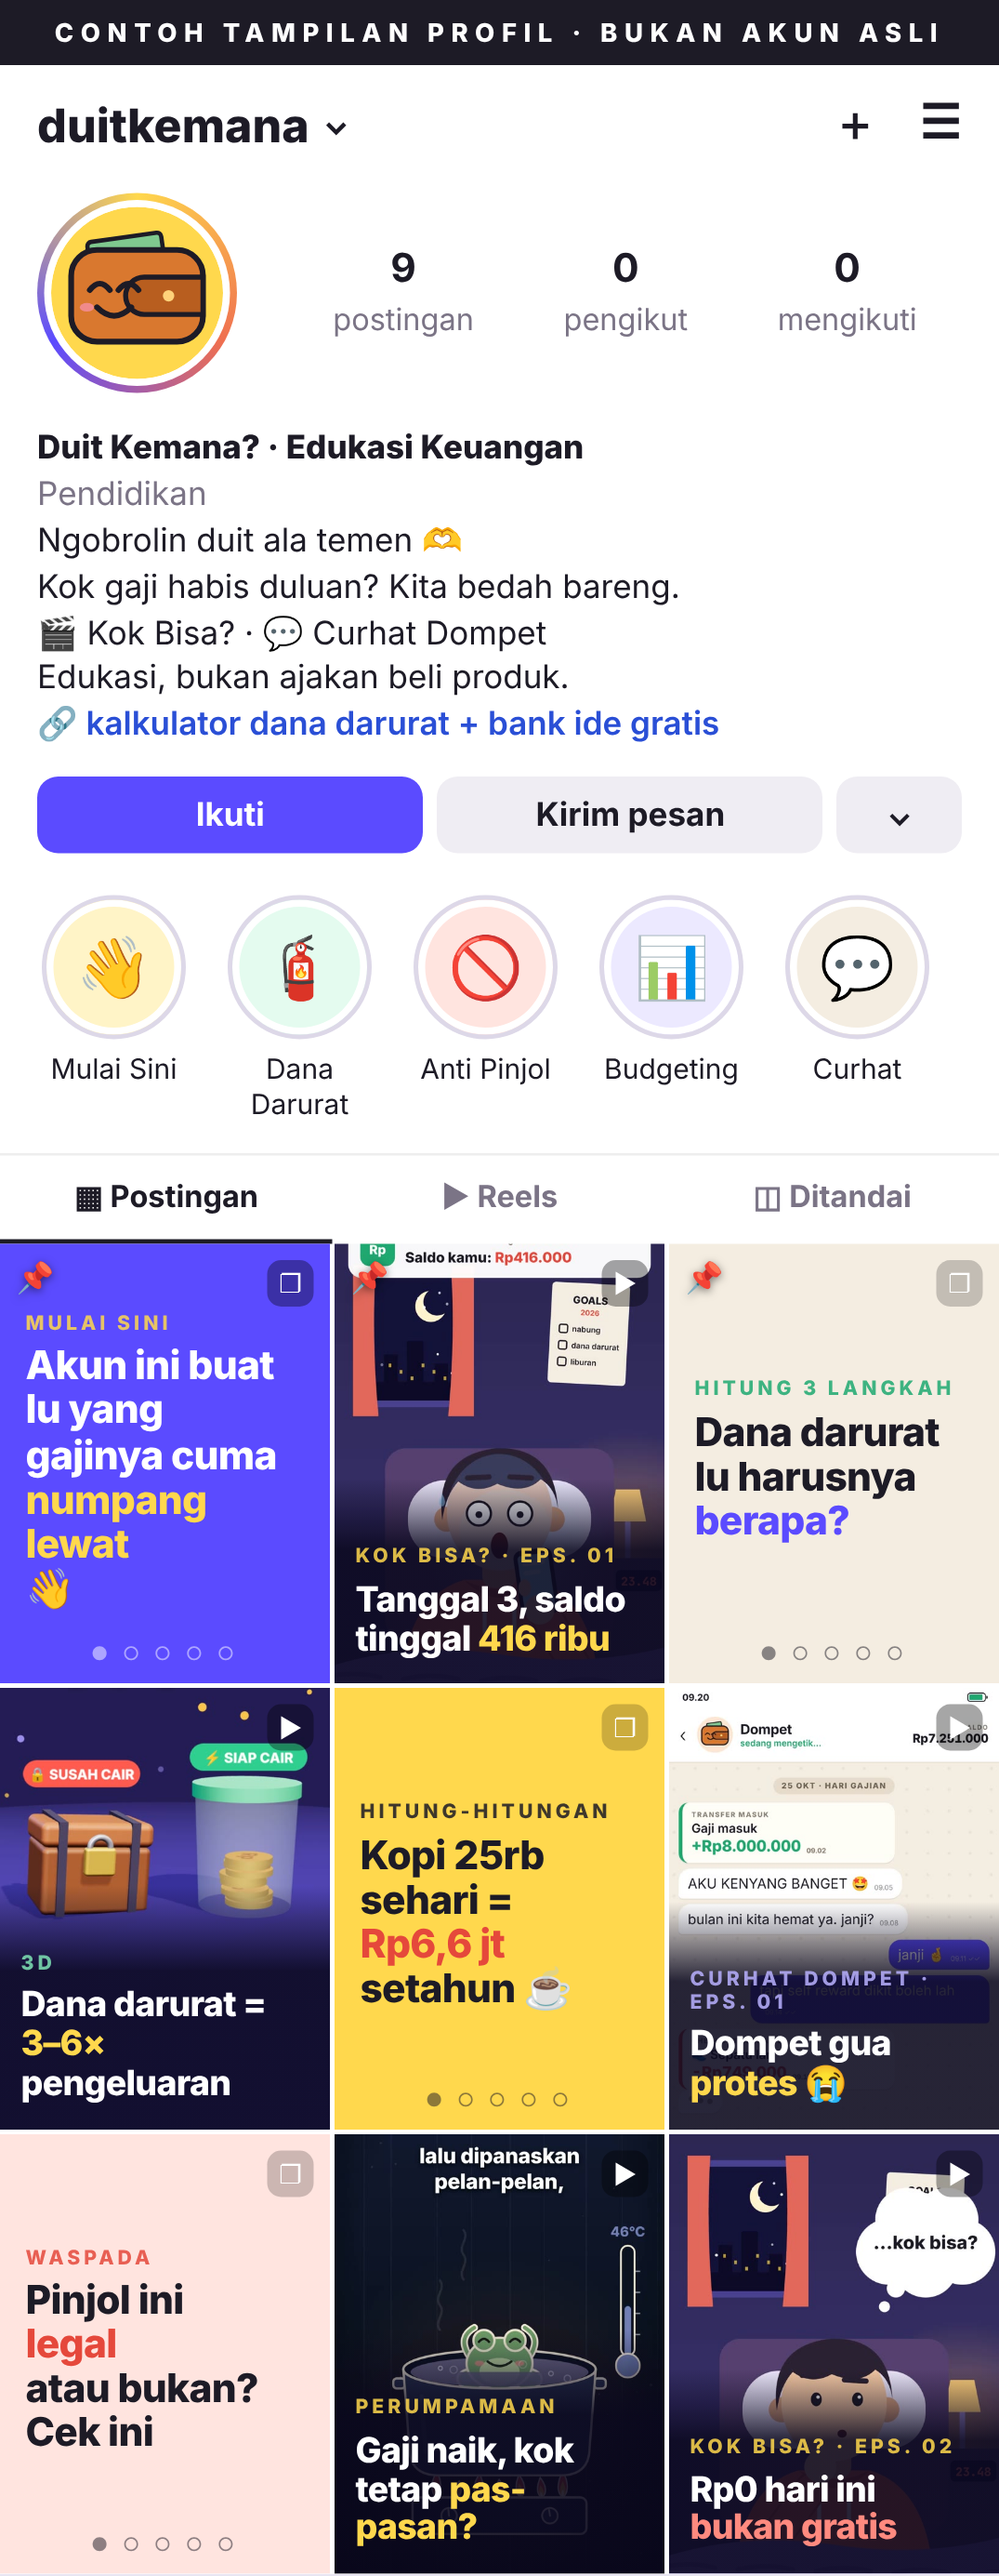
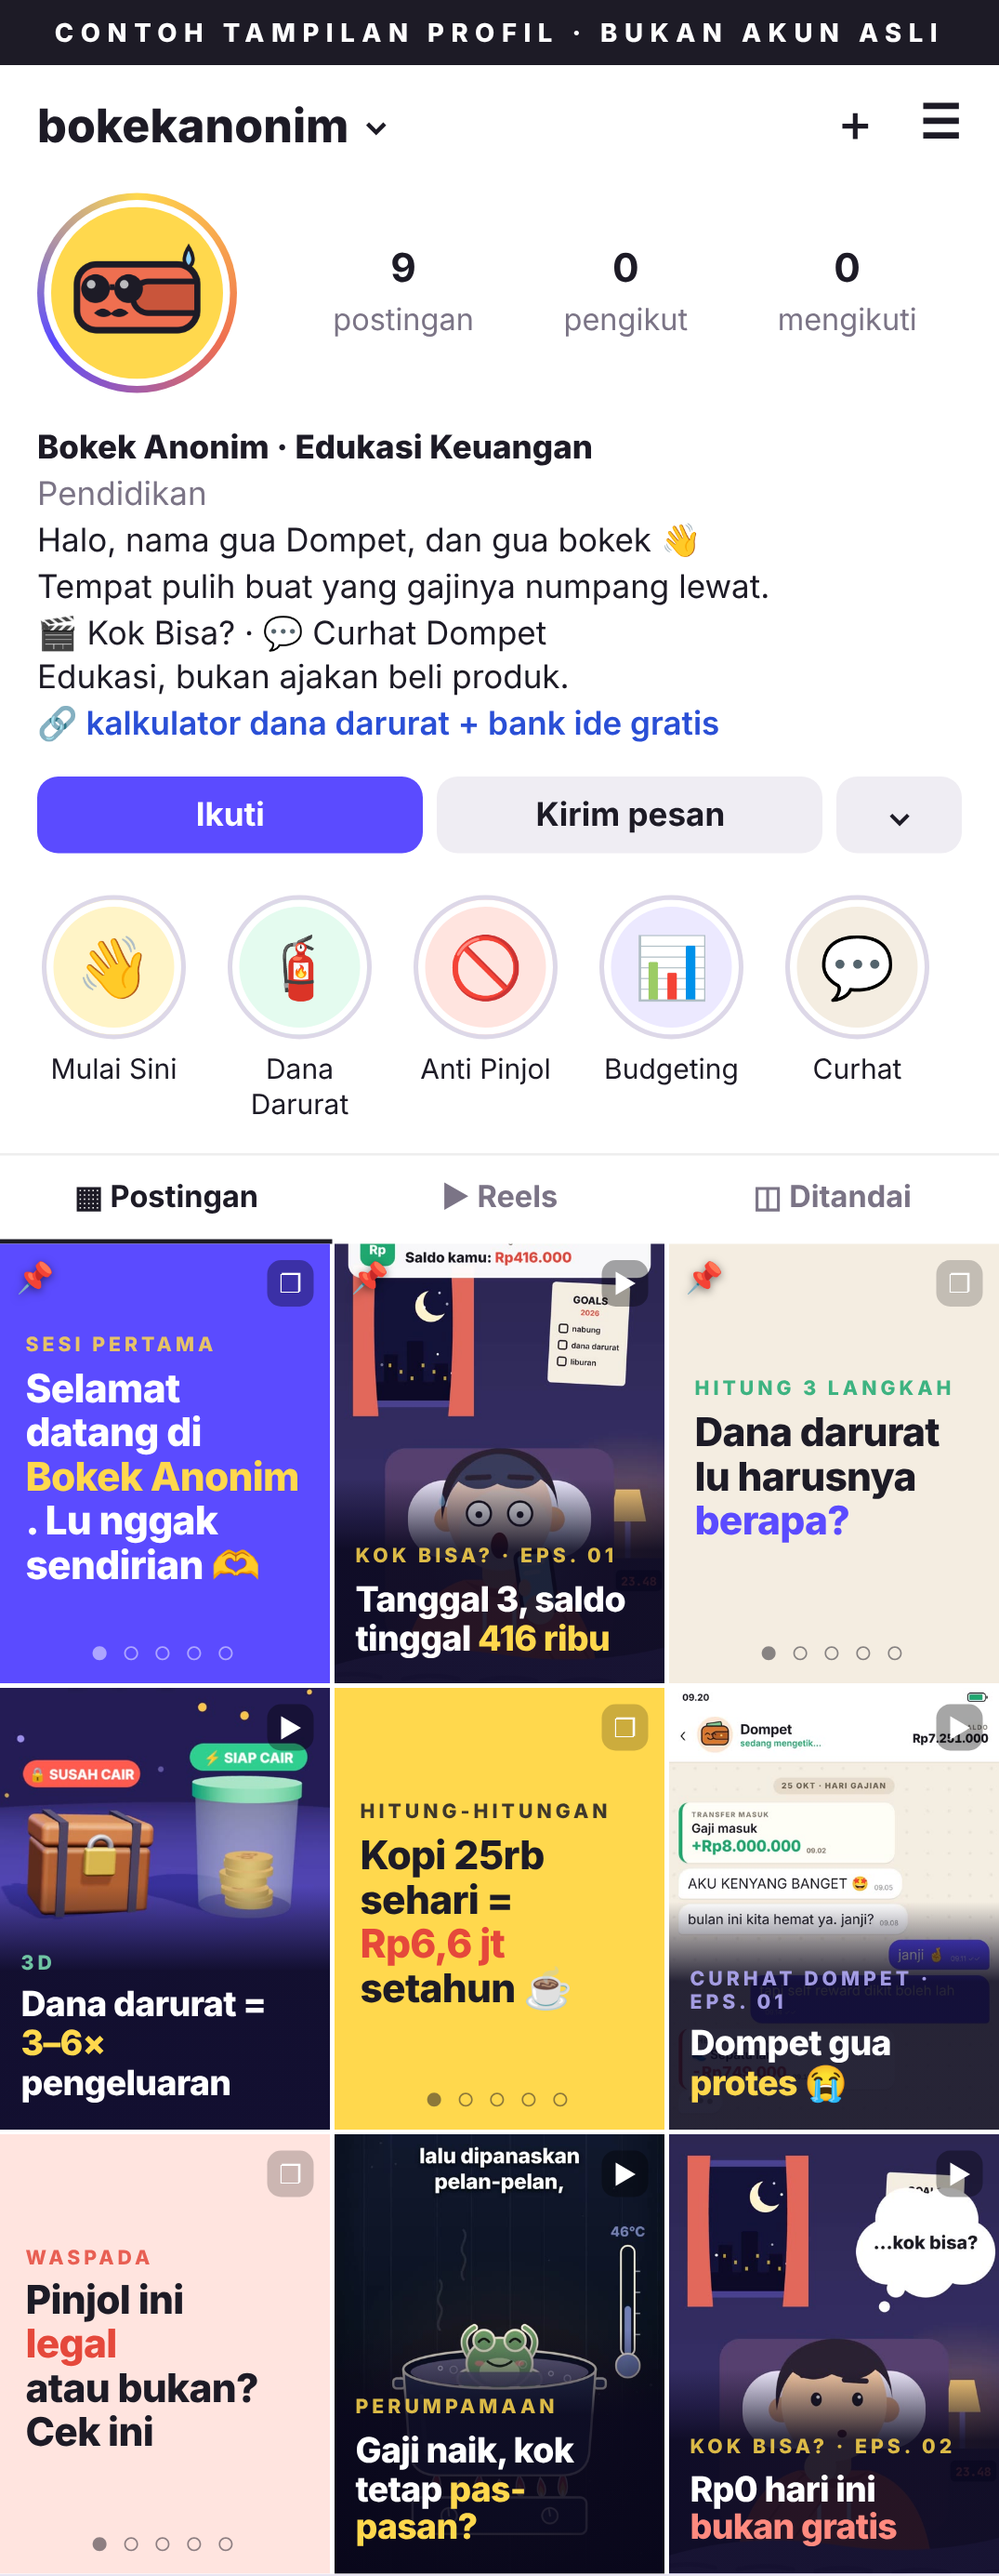
Tetapkan nama akun @bokekanonim
- Mockup profil, bio (149 karakter), dan foto profil Bokek Anonim
- profil-instagram.md: keputusan nama, konsep 'kelompok dukungan', nada 'kita senasib'
- Skill panduan-konten-finansial: profil akun final, aturan nada, tag penutup video

Claude-Session: https://claude.ai/code/session_01ATQoAQFijNxGRTTwvLjwt3

diff --git a/konten/profil/mockup.html b/konten/profil/mockup.html
@@ -48,13 +48,13 @@
 <body>
 <div class="phone">
   <div class="tagline">CONTOH TAMPILAN PROFIL · BUKAN AKUN ASLI</div>
-  <div class="top"><div class="h">duitkemana <span style="font-size:14px">⌄</span></div><div class="ic"><span>＋</span><span>☰</span></div></div>
+  <div class="top"><div class="h">bokekanonim <span style="font-size:14px">⌄</span></div><div class="ic"><span>＋</span><span>☰</span></div></div>
   <div class="head">
-    <div class="ava"><div><svg id="avatar" viewBox="0 0 120 120"></svg></div></div>
+    <div class="ava"><div><img src="logo-v2/logo-4-bokek-anonim.png" style="width:100%;height:100%;border-radius:50%;display:block"></div></div>
     <div class="stats"><div><b>9</b><span>postingan</span></div><div><b>0</b><span>pengikut</span></div><div><b>0</b><span>mengikuti</span></div></div>
   </div>
   <div class="bio">
-    <div class="name">Duit Kemana? · Edukasi Keuangan</div>
+    <div class="name">Bokek Anonim · Edukasi Keuangan</div>
     <div class="cat">Pendidikan</div>
     <div id="biotext"></div>
     <div class="link">🔗 kalkulator dana darurat + bank ide gratis</div>
@@ -70,7 +70,7 @@
   <div class="tabs"><div class="on">▦ Postingan</div><div>▶ Reels</div><div>◫ Ditandai</div></div>
   <div class="grid">
     <div class="t car" style="background:var(--violet);color:#fff"><span class="pin">📌</span><span class="badge">❐</span>
-      <div class="cov"><small style="color:var(--yellow)">MULAI SINI</small>Akun ini buat lu yang gajinya cuma <em style="color:var(--yellow)">numpang lewat</em> 👋</div><div class="dots">● ○ ○ ○ ○</div></div>
+      <div class="cov"><small style="color:var(--yellow)">SESI PERTAMA</small>Selamat datang di <em style="color:var(--yellow)">Bokek Anonim</em>. Lu nggak sendirian 🫶</div><div class="dots">● ○ ○ ○ ○</div></div>
     <div class="t vid" style="background-image:url(thumbs/kokbisa1.jpg)"><span class="pin">📌</span><span class="badge">▶</span>
       <div class="cov"><small style="color:var(--yellow)">KOK BISA? · EPS. 01</small>Tanggal 3, saldo tinggal <em style="color:var(--yellow)">416 ribu</em></div></div>
     <div class="t car" style="background:var(--cream)"><span class="pin">📌</span><span class="badge" style="background:rgba(0,0,0,.2)">❐</span>
@@ -90,11 +90,11 @@
   </div>
 </div>
 <script>
-const BIO = 'Ngobrolin duit ala temen 🫶\nKok gaji habis duluan? Kita bedah bareng.\n🎬 Kok Bisa? · 💬 Curhat Dompet\nEdukasi, bukan ajakan beli produk.';
+const BIO = 'Halo, nama gua Dompet, dan gua bokek 👋\nTempat pulih buat yang gajinya numpang lewat.\n🎬 Kok Bisa? · 💬 Curhat Dompet\nEdukasi, bukan ajakan beli produk.';
 document.getElementById('biotext').innerText = BIO;
 window.BIO = BIO;
 // maskot Dompet (gemuk, senang) sebagai foto profil
-document.getElementById('avatar').innerHTML = `
+if (document.getElementById('avatar')) document.getElementById('avatar').innerHTML = `
   <circle cx="60" cy="60" r="60" fill="#ffd84d"/>
   <rect x="26" y="20" width="52" height="22" rx="3" fill="#7fc98f" stroke="#1d1b26" stroke-width="3" transform="rotate(-8 60 30)"/>
   <rect x="14" y="30" width="92" height="64" rx="18" fill="#d9782f" stroke="#1d1b26" stroke-width="4"/>

diff --git a/.claude/skills/panduan-konten-finansial/SKILL.md b/.claude/skills/panduan-konten-finansial/SKILL.md
@@ -65,17 +65,21 @@ File `konten/bank-ide.csv` (kolom: no, pilar, judul_hook, segmen, format, angle_
 - Format satu ide: judul atau hook, segmen utama, format, angle dan isi (1–2 kalimat), CTA, plus tanda ⚠ cek kalau perlu.
 - Setelah konten tayang, ubah statusnya. Kalau Deny memberi angka performa, catat juga.
 
-## Profil akun (draf, menunggu konfirmasi Deny)
-Detail ada di `konten/profil/profil-instagram.md`, mockup di `konten/profil/contoh-profil.png`.
-- Nama yang direkomendasikan: **@duitkemana** dengan nama tampilan "Duit Kemana? · Edukasi Keuangan". Alternatifnya @curhatdompet, @sisagaji, @tanggaltua.club, dan @melekduit. Ketersediaan handle belum dicek.
-- Foto profil: maskot Dompet senang di lingkaran kuning (`konten/profil/foto-profil-dompet.png`).
-- Palet: ungu `#5b4bff`, kuning `#ffd84d`, krem `#f4ede1`, coral `#ef6f50`, ink `#1d1b26`. Font Inter.
-- Highlight: Mulai Sini, Dana Darurat, Anti Pinjol, Budgeting, Curhat.
-- Cover reels: label seri kecil berhuruf kapital, lalu judul 2–3 baris dengan satu kata disorot. Grid diselang-seling antara video gelap dan carousel terang.
-Selama nama belum dikonfirmasi, jangan tulis handle di video atau carousel.
+## Profil akun: Bokek Anonim (diputuskan Deny, 2026-11-01)
+Detail ada di `konten/profil/profil-instagram.md`, mockup di `konten/profil/contoh-profil.png`, dan riset brandnya di dokumen [Riset Brand Akun Edukasi Finansial](https://claude.ai/artifact/Gtirj8RkWDKjGuurjw4SMb).
+- **Handle:** @bokekanonim. Nama tampilan "Bokek Anonim · Edukasi Keuangan". Ketersediaan handle belum dicek; cadangannya @bokek.anonim dan @bokekanonim.id. Nama lama "Duit Kemana" **tidak dipakai**.
+- **Konsep:** parodi kelompok dukungan, dengan Dompet sebagai anggota yang membuka sesi ("Halo, nama gua Dompet, dan gua bokek"). Konten boleh disebut "sesi", misalnya "Sesi #12: paylater". Seri *Kok Bisa?* dan *Curhat Dompet* tetap jalan di dalam akun ini.
+- **Nada wajib:** "kita senasib", bukan "lu bokek". Yang disindir kebiasaannya, bukan orangnya. Selalu ada pujian atau semangat saat penonton berhasil. Jangan menertawakan orang yang benar-benar kesulitan, misalnya kena PHK, sakit, atau terjerat pinjol; untuk topik itu nadanya empatik.
+- **Logo dan foto profil:** dompet coral berkacamata dan berkumis penyamaran di latar kuning (`konten/profil/foto-profil-bokek-anonim.png`, sumber di `konten/profil/logo-v2/`). Hindari koin dengan grafik naik, daun, perisai, dan warna hijau atau biru ala bank.
+- **Palet:** kuning `#ffd84d`, coral `#ef6f50`, krem `#f4ede1`, ink `#1d1b26`, plus ungu `#5b4bff` sebagai aksen. Font Inter.
+- **Bio (149/150 karakter):** "Halo, nama gua Dompet, dan gua bokek 👋 / Tempat pulih buat yang gajinya numpang lewat. / 🎬 Kok Bisa? · 💬 Curhat Dompet / Edukasi, bukan ajakan beli produk."
+- **Highlight:** Mulai Sini, Dana Darurat, Anti Pinjol, Budgeting, Curhat.
+- **Cover reels:** label seri kecil berhuruf kapital, lalu judul 2–3 baris dengan satu kata disorot. Grid diselang-seling antara video gelap dan carousel terang.
+- **Tag penutup video:** `BOKEK ANONIM · <SERI> EPS. NN`. Label lama "DOMPET BOCOR" di video Katak di Panci harus diganti.
 
 ## Pertanyaan terbuka (tanyakan ke Deny saat relevan, lalu pindahkan jawabannya ke atas)
-- Konfirmasi nama akun (lihat draf di atas) dan hasil cek ketersediaan handle.
+- Hasil cek ketersediaan handle @bokekanonim di Instagram, TikTok, dan YouTube.
+- Wajah brand cukup maskot Dompet, atau Deny ikut tampil (wajah atau suara)?
 - Frekuensi posting per minggu dan platform prioritas (Instagram, TikTok, atau keduanya).
 - Segmen prioritas kalau harus memilih satu untuk 30 hari pertama.
 - Apakah akan ada wajah atau suara Deny (voice over), atau full animasi.

diff --git a/konten/profil/profil-instagram.md b/konten/profil/profil-instagram.md
@@ -1,8 +1,13 @@
-# Profil Instagram — Akun Edukasi Finansial
+# Profil Instagram — Bokek Anonim
 
-Lihat `contoh-profil.png` untuk mockup tampilan, dan `foto-profil-dompet.png` (1080×1080) untuk foto profil.
+**Keputusan (2026-11-01): nama akun @bokekanonim · "Bokek Anonim · Edukasi Keuangan".** Dipilih Deny dari hasil riset brand ([dokumen riset](https://claude.ai/artifact/Gtirj8RkWDKjGuurjw4SMb)). Foto profil: `foto-profil-bokek-anonim.png` (dompet coral berkacamata dan berkumis penyamaran, latar kuning). Mockup: `contoh-profil.png`.
 
-> ⚠ Ketersediaan handle **belum dicek** (Instagram tidak bisa diakses dari sini). Cek manual di aplikasi sebelum memutuskan; siapkan cadangan.
+> ⚠ Ketersediaan handle **belum dicek**. Cadangan: @bokek.anonim · @bokekanonim.id · @klubbokekanonim. Amankan juga di TikTok & YouTube.
+
+**Konsep:** parodi kelompok dukungan ("Halo, nama gua Dompet, dan gua bokek"). Nadanya **"kita senasib"**, bukan "lu bokek": yang disindir kebiasaannya, bukan orangnya, dan selalu ada pujian kalau penonton berhasil. Seri *Kok Bisa?* dan *Curhat Dompet* jalan di dalam akun ini; konten bisa disebut "sesi" (mis. "Sesi #12: paylater").
+
+---
+*Arsip pilihan awal (sebelum riset brand) di bawah ini untuk referensi.*
 
 ## 1. Pilihan nama
 
@@ -20,10 +25,10 @@ Tips memilih: hindari angka & underscore berlebihan, pastikan handle yang sama j
 
 ## 2. Bio (≤150 karakter — versi utama 133 karakter)
 
-**Versi utama (dipakai di mockup):**
+**Versi utama Bokek Anonim (dipakai di mockup, 149/150 karakter):**
 ```
-Ngobrolin duit ala temen 🫶
-Kok gaji habis duluan? Kita bedah bareng.
+Halo, nama gua Dompet, dan gua bokek 👋
+Tempat pulih buat yang gajinya numpang lewat.
 🎬 Kok Bisa? · 💬 Curhat Dompet
 Edukasi, bukan ajakan beli produk.
 ```
@@ -34,7 +39,7 @@ Edukasi, bukan ajakan beli produk.
 
 Baris "Edukasi, bukan ajakan beli produk" sengaja dipertahankan — melindungi akun saat bahas konsep investasi.
 
-**Nama tampilan** memuat kata kunci yang bisa dicari: "Duit Kemana? · Edukasi Keuangan".
+**Nama tampilan** memuat kata kunci yang bisa dicari: "Bokek Anonim · Edukasi Keuangan".
 **Kategori:** Pendidikan (atau "Kreator digital").
 **Link di bio:** sementara arahkan ke satu halaman berisi kalkulator dana darurat + bank ide (bisa dibuat nanti; sampai siap, kosongkan saja).
 
@@ -52,7 +57,7 @@ Sampul highlight: lingkaran warna pastel (kuning, hijau mint, merah muda, ungu m
 ## 4. Grid 9 postingan pertama (urutan tayang: no. 9 dulu → no. 1 terakhir)
 | Posisi | Jenis | Konten | Sumber |
 |---|---|---|---|
-| 1 📌 | Carousel | **Mulai sini**: "Akun ini buat lu yang gajinya cuma numpang lewat 👋" — perkenalan + isi akun | baru |
+| 1 📌 | Carousel | **Sesi pertama**: "Selamat datang di Bokek Anonim. Lu nggak sendirian 🫶" — perkenalan + isi akun | baru |
 | 2 📌 | Reel | *Kok Bisa?* eps. 01 — "Tanggal 3, saldo tinggal 416 ribu" | sudah jadi (`explainer/kok-bisa`) |
 | 3 📌 | Carousel | "Dana darurat lu harusnya berapa?" (bank ide #5) | baru |
 | 4 | Reel 3D | "Dana darurat = 3–6× pengeluaran" | draft uji skill (perlu cek & poles) |
